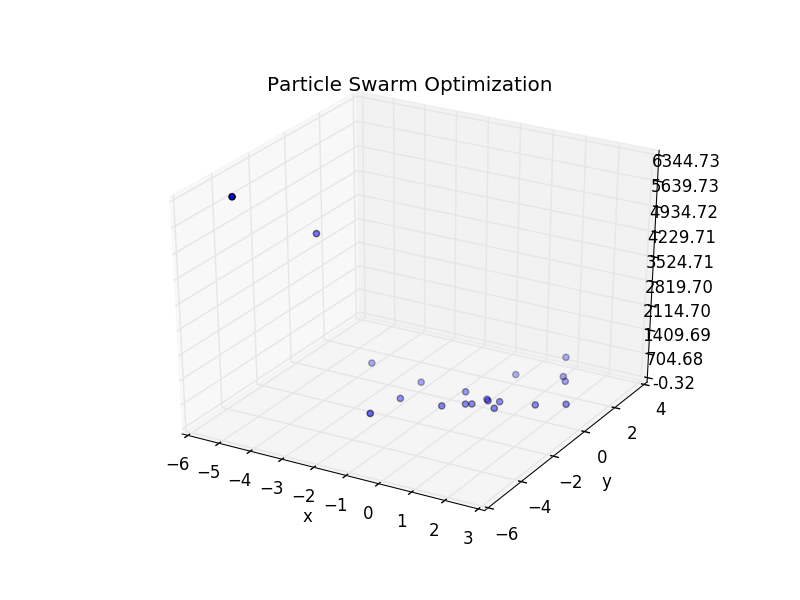
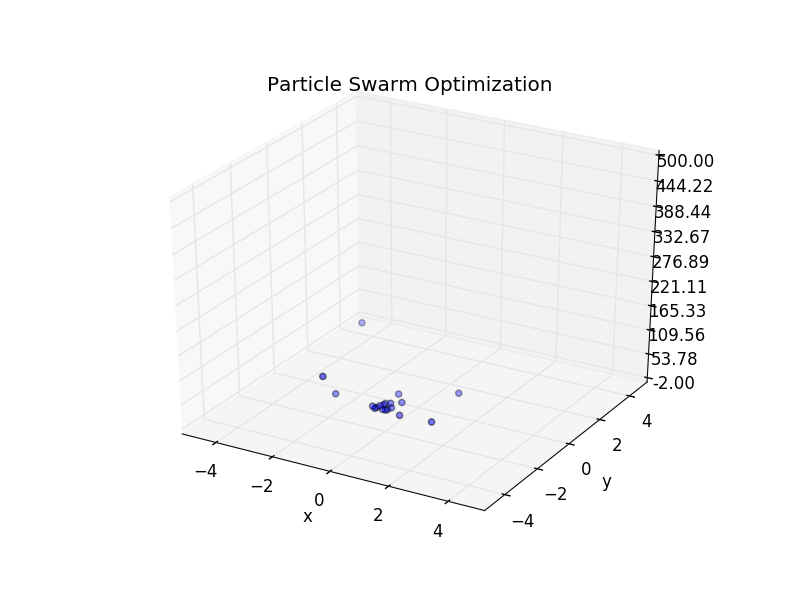
tune some pso parameters

diff --git a/assignments/ece457a/a3/q3.py b/assignments/ece457a/a3/q3.py
@@ -4,9 +4,9 @@ import sys
 
 from matplotlib.ticker import LinearLocator, FormatStrFormatter
 from mpl_toolkits.mplot3d import Axes3D  # pylint: disable=W0611
-import matplotlib.cm as cm
+# import matplotlib.cm as cm
 import matplotlib.pyplot as plot
-import numpy
+# import numpy
 
 
 # vector math
@@ -39,8 +39,8 @@ class Particle:
     ZETA = COGNITIVE + SOCIAL
     assert ZETA > 4.
 
-    INERTIA = 1.0
-    assert 0.8 < INERTIA < 1.2
+    INERTIA = 0.8
+    assert 0.8 <= INERTIA <= 1.2
 
     CONSTRICTION = 2. / abs(2 - ZETA - (ZETA ** 2 - 4 * ZETA) ** (1/2.))
 
@@ -106,8 +106,9 @@ def pso(num_particles, iterations=10):
             fitness = particle.fitness()
             if fitness < best:
                 gbest = particle.position
-                if fitness < pbest:
-                    pbest = fitness
+                best = fitness
+        if best < pbest:
+            pbest = best
 
         for particle in particles:
             particle.update_velocity(gbest, pbest)
@@ -120,7 +121,9 @@ def pso(num_particles, iterations=10):
 
         fig = plot.figure()
         axis = fig.gca(projection='3d')
-        axis.set_zlim(min(z), max(z))
+        axis.set_xlim(-5, 5)
+        axis.set_ylim(-5, 5)
+        axis.set_zlim(-2, 500)
         axis.zaxis.set_major_locator(LinearLocator(10))
         axis.zaxis.set_major_formatter(FormatStrFormatter('%.02f'))
 
